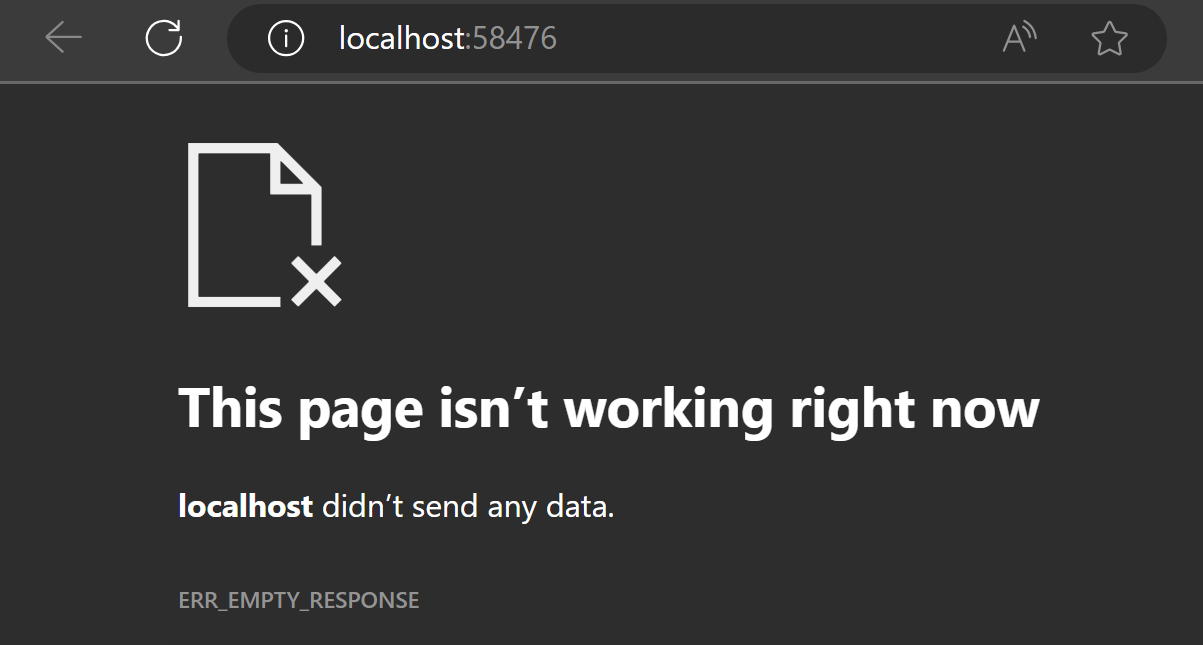
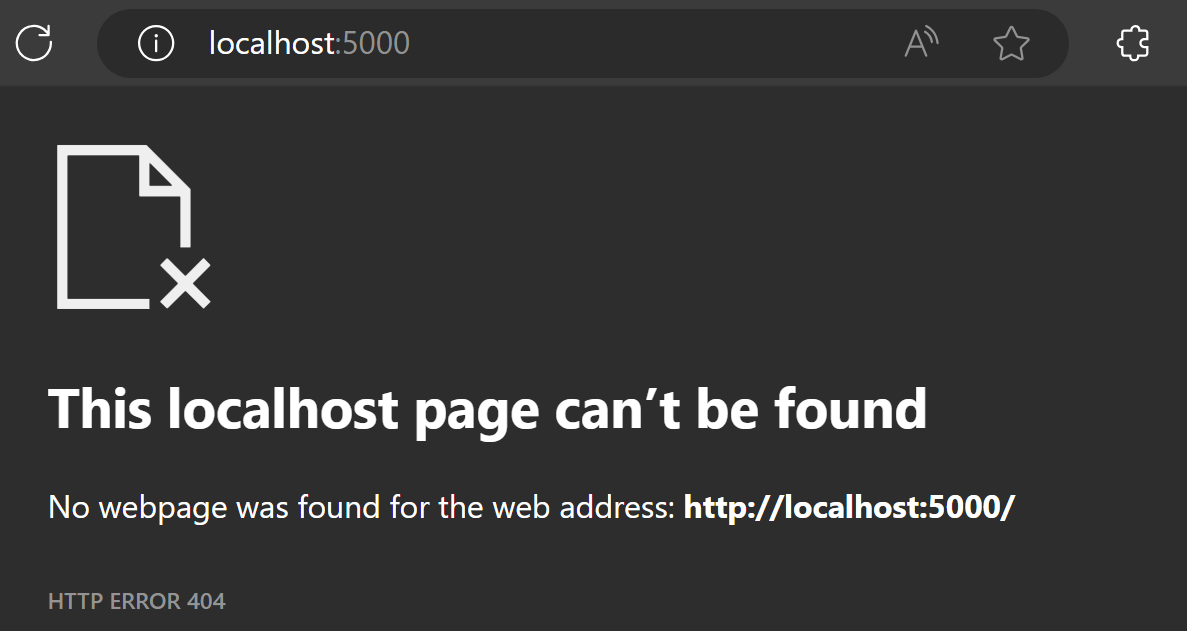
Update Readme.

diff --git a/README.md b/README.md
@@ -6,19 +6,19 @@ El ejemplo define 3 componentes:
 - WebAppProductor: Una aplicación web que permite enviar mensajes a través de RabbitMQ. Para ingresar el mensaje expone un endpoint REST.
 - WebAppConsumidor: Una aplicación web que permite recibir mensajes a través de RabbitMQ. Los mensajes son visibles a través del log de la aplicación.
 
-Los 3 componentes son instanciados utilizando Docker Compose.
+Los 3 componentes son instanciados utilizando Rancher Desktop.
 
 ## Technologías usadas
 
 - [.NET 6.0](https://dotnet.microsoft.com/)
 - [RabbitMQ](https://www.rabbitmq.com/)
-- [Docker](https://www.docker.com/)
+- [Rancher Desktop](https://rancherdesktop.io/)
 
 ## ¿Cómo ejecutar?
 
-### En Docker Desktop
+### En Rancher Desktop
 
-- Crear volumen `rabbitmqdata`
+- Crear volumen `rabbitmqdata` a través del siguiente comando: `docker volume create --driver local rabbitmqdata`
 
 ### En Visual Studio
 
@@ -40,17 +40,16 @@ Al ejecutar la solución en Visual Studio, se abrirá automáticamente la págin
 
 Si se ejecuta la solución por línea de comandos:
 
-- En Docker Desktop, ir al panel Containers:
+- En Rancher Desktop, ir al panel Containers:
 
 ![Containers](screenshot-containers.png)
-- Seleccionar el container `WebAppProductor-1`.
-- Debajo del nombre del container, hacer clic en el enlace para el puerto `443`.
+- Seleccionar el container `WebAppProductor`.
+- A la derecha del nombre del container, hacer clic en el enlace para el puerto `5000`.
 
-![WebAppProductor](screenshot-webappproductor.png)
-- La ventana abierta en el navegador no presentará ninguna página, dado que la URL comienza con `http` en lugar de `https`.
+- La ventana abierta en el navegador no presentará ninguna página.
 
 ![WebAppProductorSwagger1](screenshot-webappproductor-swagger-1.png)
-- En la ventana del navegador, reemplazar `localhost:58476` por `https://localhost:58476/swagger/index.html`. El puerto `58476` es asignado automáticamente por Docker al momento de crear el container. En siguientes ejecuciones el número de puerto será diferente.
+- En la ventana del navegador, reemplazar `localhost:5000` por `http://localhost:5000/swagger/index.html`. El puerto `5000` es asignado en el archivo `docker-compose.override.yml`.
 
 ![WebAppProductorSwagger2](screenshot-webappproductor-swagger-2.png)
 
@@ -66,10 +65,11 @@ Si se ejecuta la solución por línea de comandos:
 
 ## ¿Cómo verificar que el mensaje es recibido?
 
-- En Docker Desktop, ir al panel Containers:
-
-![Containers](screenshot-containers.png)
-- Seleccionar el container `WebAppConsumidor-1`.
-- El mensaje aparece en una entrada del log del container.
+- En Visual Studio, en la ventana Containers:
 
 ![WebAppConsumidorLogs](screenshot-webappconsumidor-logs.png)
+
+- En Rancher Desktop, ir plugin Logs Explorer (debe ser instalado por separado):
+- El mensaje aparece en una entrada del log del container.
+
+![WebAppConsumidorLogs](screenshot-webappconsumidor-logs-2.png)
